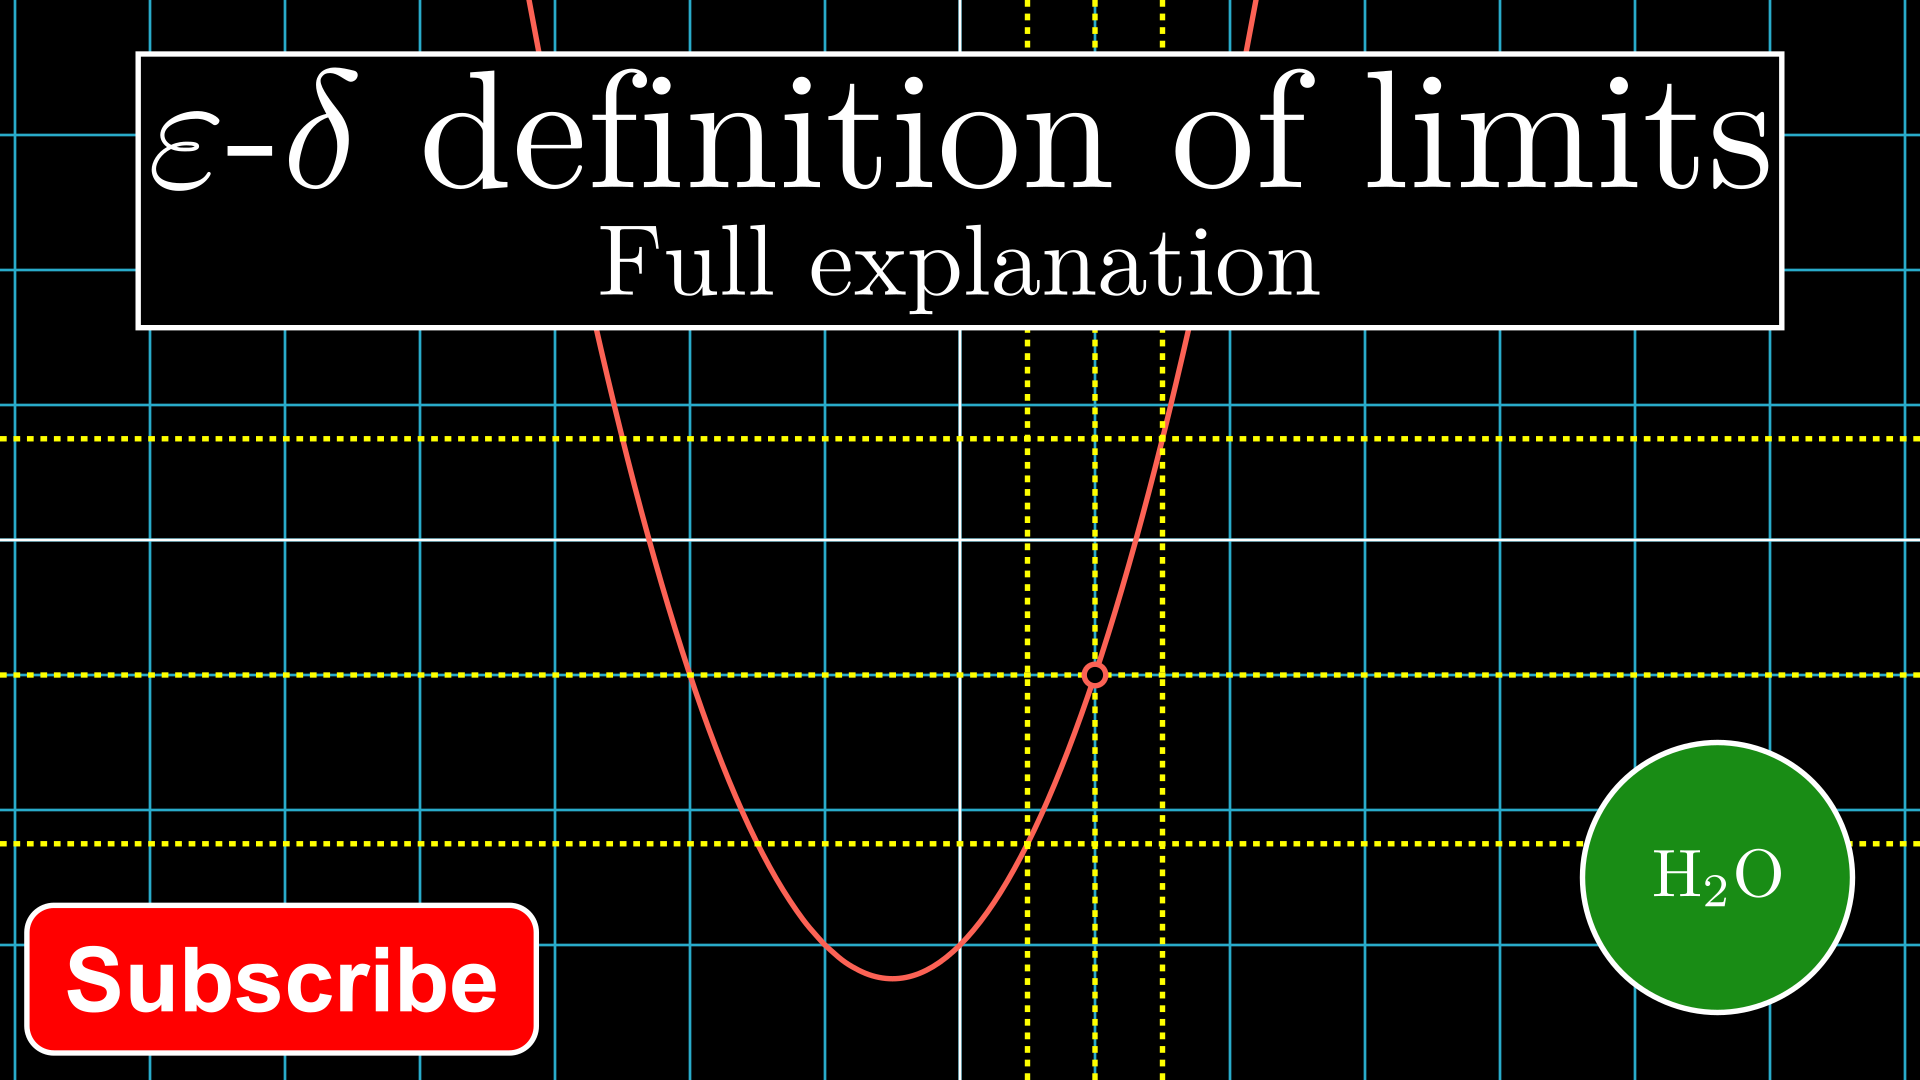
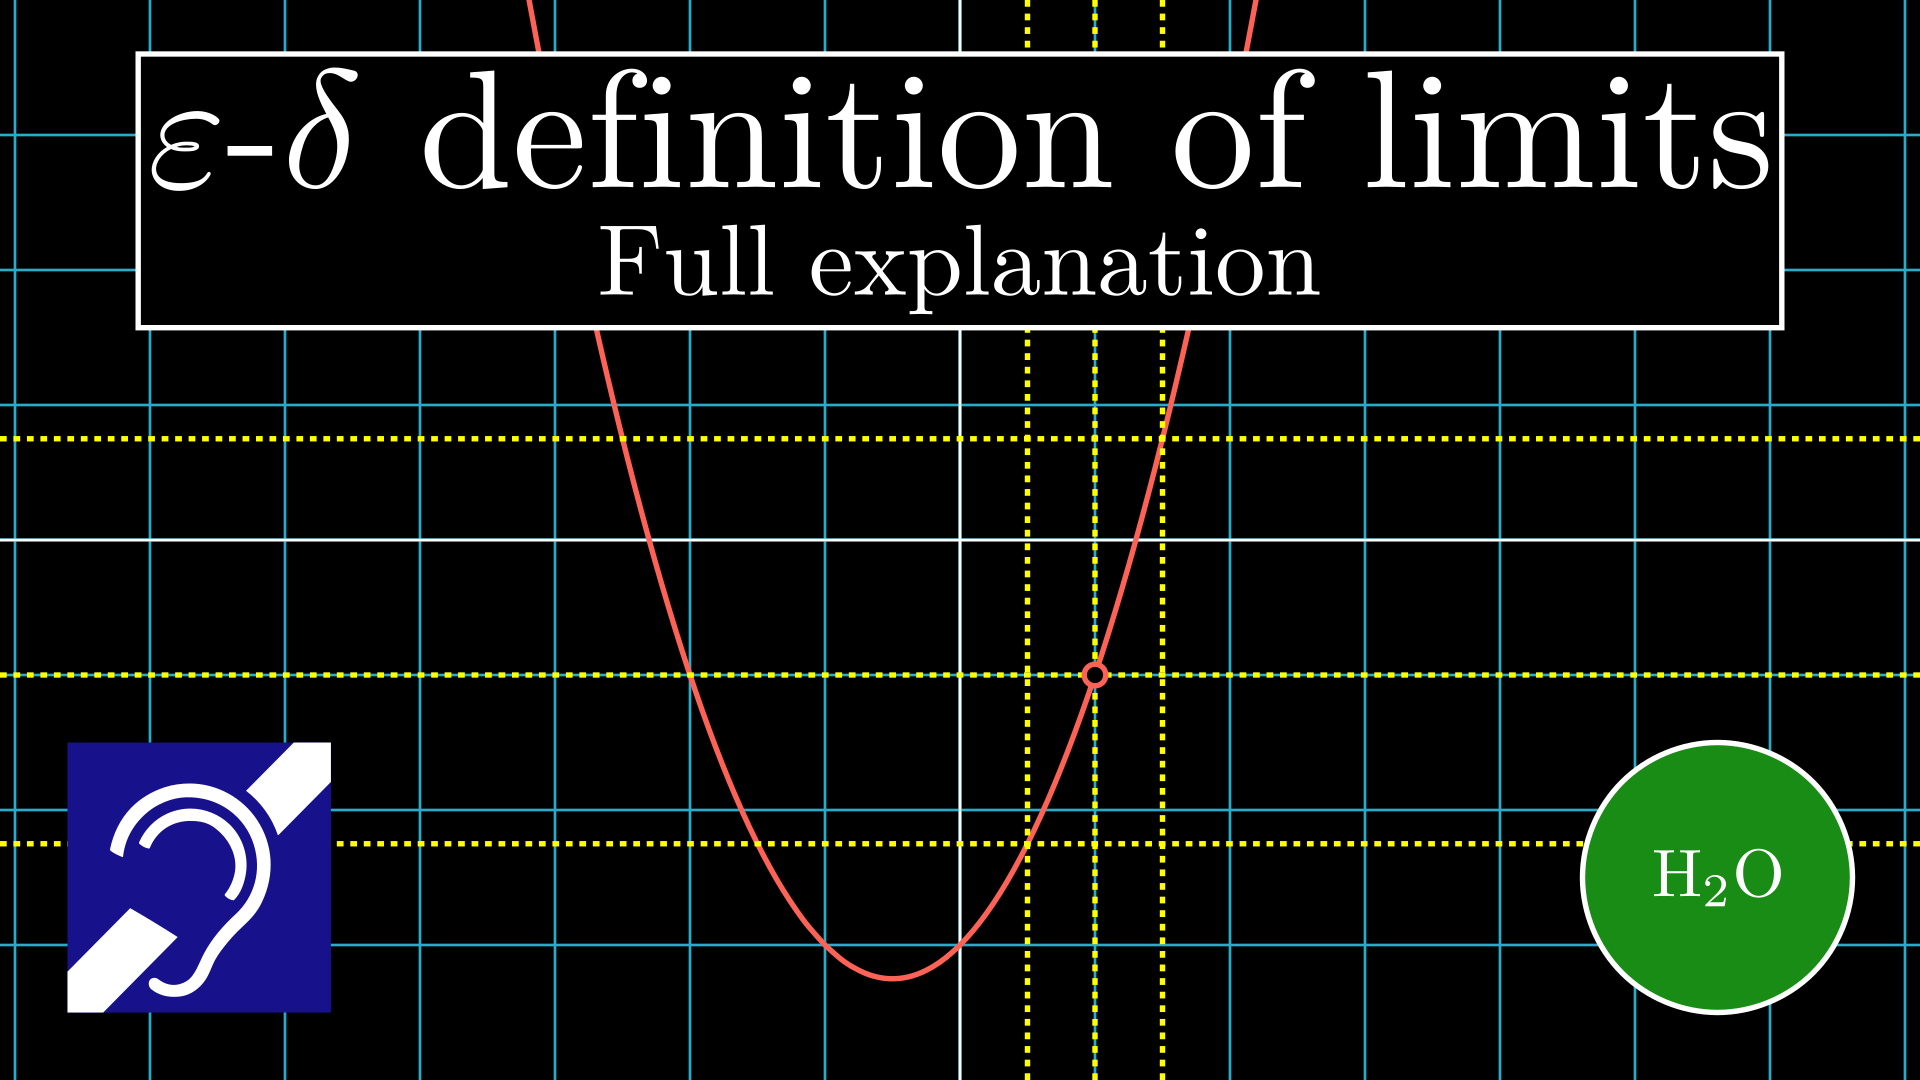
Updated

Changed region(s): [[0.0, 0.6722, 0.2812, 0.9778]]

diff --git a/2022/limits/epsilon_delta.py b/2022/limits/epsilon_delta.py
@@ -82,13 +82,11 @@ class Thumbnail(EpsilonDeltaScene):
         dot = Dot(self.ax.c2p(x0, l), color=BLACK).set_stroke(RED, width=4)
 
         logo = Logo().to_corner(DR)
-        subscribe = Text("Subscribe", font="Arial", weight=BOLD).to_corner(DL)
-        rec2 = SurroundingRectangle(subscribe, color=WHITE, corner_radius=0.2, buff=0.3)
-        rec2.set_fill(PURE_RED, opacity=1)
+        symbol = SVGMobject("symbol.svg").to_corner(DL)
 
         self.add(
             self.ax, graph, delta_lines, epsilon_lines, limit_lines, dot, rec, title,
-            text, logo, rec2, subscribe
+            text, logo, symbol
         )
     
     def func(self, x):
